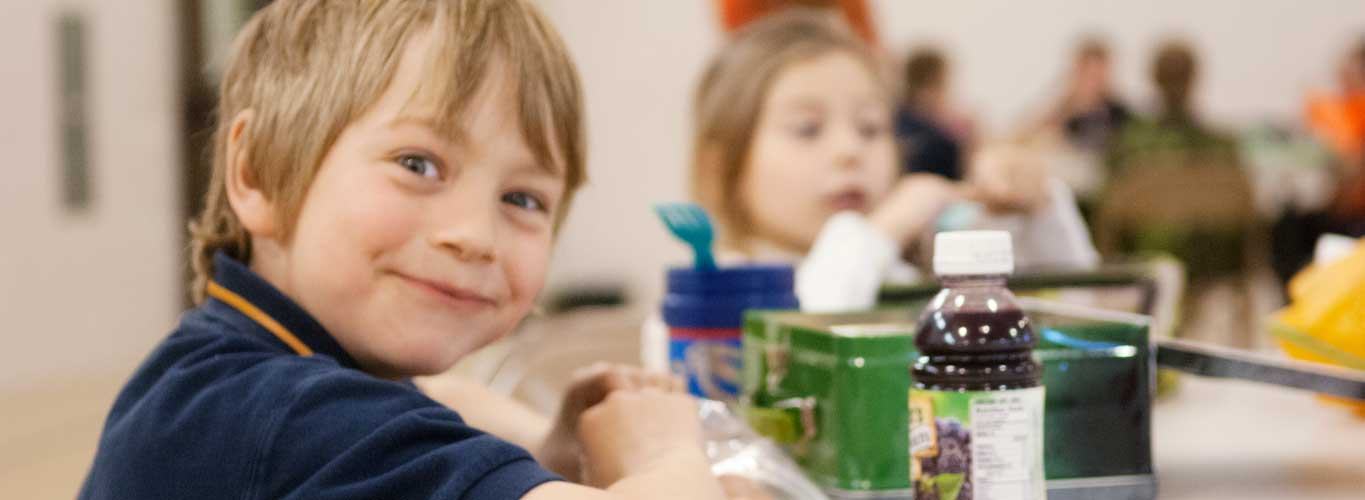
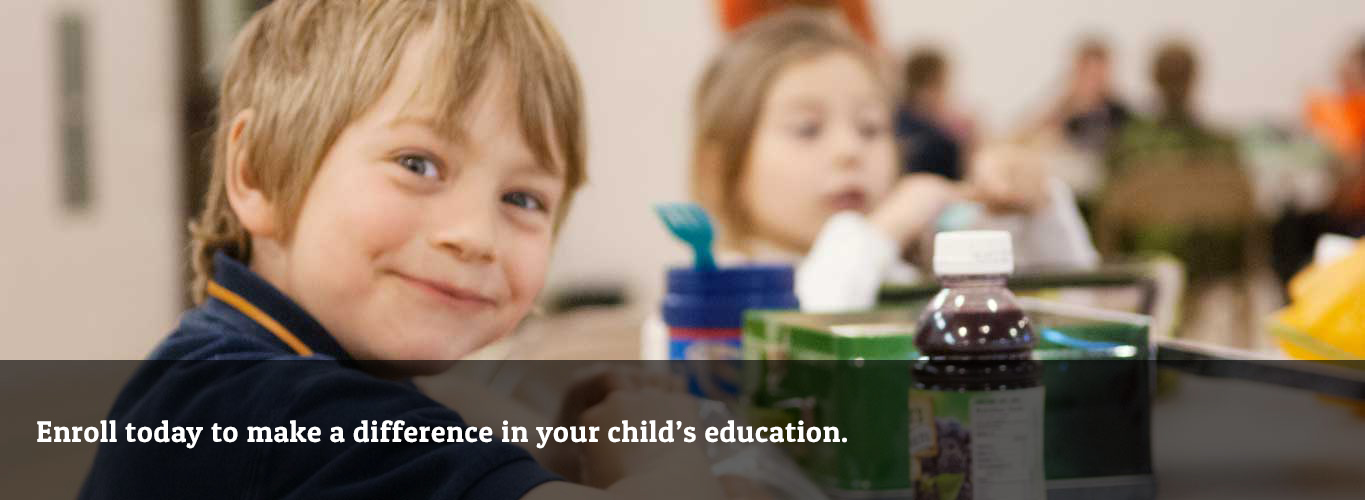
The usual

Changed region(s): [[0.0, 0.72, 1.0, 1.0]]

diff --git a/index.html b/index.html
@@ -46,55 +46,94 @@
   </div>
 
 <!-- End Header and Nav -->
- 
+ <div>
 <!-- First Band (Slider) -->
  
   <div class="row">
     <div class="large-12 small-12 columns">
     <div id="slider">
       <img src="img/orbit1.jpg" class="enroll" />
+      <a href="#"><button class="right enrollbtn show-for-large-only">Enroll Now</button></a>
+    </div>
+    <div class="large-12 small-12 columns">
+      <a href="#"><button class="center show-for-small-only">Enroll Now</button></a>
     </div>
     </div>
   </div>
   
 <!-- Three-up Content Blocks -->
- <br>
 
   <div class="row">
     <div class="large-4 small-12 columns">
       <h4 align="center"><i class="fi-megaphone" style="font-size:2em; color: #34586e; background:transparent;" align="center"></i><br>About Us</h4>
-      <hr style="color: #34586e;"><br>
+      <hr style="color: #34586e;">
       <p class="blurb"> Bacon ipsum dolor sit amet nulla ham qui sint exercitation eiusmod commodo, chuck duis velit. Aute in reprehenderit, dolore aliqua non est magna in labore pig pork biltong. Eiusmod swine spare ribs reprehenderit culpa. Boudin aliqua adipisicing rump corned beef.</p>
     </div>
     
     <div class="large-4 small-12  columns">
       <h4 align="center"><i class="fi-torsos-all" style="font-size:2em; color: #34586e; background:transparent;"></i><br>Our Staff</h4>
-      <hr style="color: #34586e;"><br>
+      <hr style="color: #34586e;">
       <p class="blurb"> Bacon ipsum dolor sit amet nulla ham qui sint exercitation eiusmod commodo, chuck duis velit. Aute in reprehenderit, dolore aliqua non est magna in labore pig pork biltong. Eiusmod swine spare ribs reprehenderit culpa. Boudin aliqua adipisicing rump corned beef.</p>
     </div>
     
     <div class="large-4 small-12 columns">
       <h4 align="center"><i class="fi-target" style="font-size:2em; color: #34586e; background:transparent;"></i><br>Our Values</h4>
-      <hr style="color: #34586e;"><br>
+      <hr style="color: #34586e;">
       <p class="blurb"> Bacon ipsum dolor sit amet nulla ham qui sint exercitation eiusmod commodo, chuck duis velit. Aute in reprehenderit, dolore aliqua non est magna in labore pig pork biltong. Eiusmod swine spare ribs reprehenderit culpa. Boudin aliqua adipisicing rump corned beef.</p>
     </div>
   
     </div>
-    
+  </div>
+    <br>
+    <br>
 <!-- Call to Action Panel -->
 <div class="row">
     <div class="large-12 columns">
     
       <div class="panel">
-        <h4>Get in touch!</h4>
-            
-        <div class="row">
-          <div class="large-9 columns">
-            <p>We'd love to hear from you!</p>
-          </div>
-          <div class="large-3 columns">
-            <a href="#" class="radius button right">Contact Us</a>
-          </div>
+        <form>
+  <div class="row">
+    <div class="large-4 columns">
+      <label>First Name
+        <input type="text" placeholder="First" />
+      </label>
+    </div>
+    <div class="large-4 columns">
+      <label>Middle Name
+        <input type="text" placeholder="Middle" />
+      </label>
+    </div>
+    <div class="large-4 columns">
+      <label>Last Name
+        <input type="text" placeholder="Last" />
+      </label>
+    </div>
+  </div>
+  <div class="row">
+    <div class="large-4 columns">
+      <label>Phone Number
+        <input type="text" placeholder="XXX-XXX-XXXX" />
+      </label>
+    </div>
+    <div class="large-8 columns">
+      <label>Address
+        <input type="text" placeholder="123 Elm. Street" />
+      </label>
+    </div>
+    <div class="large-3 columns">
+      <label>Grade Level
+        <input type="text" placeholder="i.e. 1-8" />
+      </label>
+    </div>
+   <div class="large-9 columns">
+      <label>Additional Information
+        <textarea placeholder="Tell us about your student!"></textarea>
+      </label>
+    </div>
+    <div class="large-12 columns">
+    <a href="#"><button class="right">Submit</button></a>
+  </div>
+</form>
         </div>
       </div>
       

diff --git a/css/styles.css b/css/styles.css
@@ -3,7 +3,6 @@
 /* Globals */
 
 h4 {
-	font-weight: bold;
 	color: #34586e;
 	font: 300 1.5em Lato;
 	font-weight: bolder;
@@ -22,11 +21,14 @@ body {
 	/*-webkit-box-shadow: 0 7px 3px -6px #ccc;
 	   -moz-box-shadow: 0 7px 3px -6px #ccc;
 	        box-shadow: 0 7px 3px -6px #ccc;*/
+	        height: 55px;
+	        padding-top: 5px;
+	        z-index: 2;
 }
 
 .top-bar .name h1 a, .top-bar-section ul li > a {
 
-	background: transparent;
+	background: white;
 	color: #555;
 	
 	font-size: .5em;
@@ -35,43 +37,58 @@ body {
 
 .top-bar-section li:not(.has-form) a:not(.button), .top-bar-section ul {
 
-	background: transparent;
+	background: white;
 	color: #8C8E90;
 	font-size: 12px;
 	font-weight: bolder;
 }
 
 .top-bar-section ul:hover {
-	background: transparent;
+	background: white;
 	color: #34586e;
 }
 
 .top-bar-section li:not(.has-form) a:not(.button):hover {
-	background: transparent;
+	background: white;
 	color: #34586e;
 	font-weight: bold;
 }
 
 .top-bar.expanded .title-area {
-	background: transparent;
+	background: white;
 }
 
 .blurb {
 	background: #ddecf9;
 	padding: 20px;
 	border-radius: 10px;
+	top:-500px;
 }
 
 /* Orbit */
 
 .enroll {
 	margin-top: 10px;
+	z-index: 1;
+}
+
+.enrollbtn {
+	top: -80px;
+	left: -40px;
+	background: #34586e;
+	font: 300 1.5em Lato;
+	font-weight: bolder;
 }
 
 .orbit-container .orbit-slides-container li .orbit-caption {
 	top: 400px;
 }
 
+button {
+	background: #34586e;
+	font: 300 1.5em Lato;
+	font-weight: bolder;
+}
 footer {
 	color: white;
 	background-color: #34586e;
